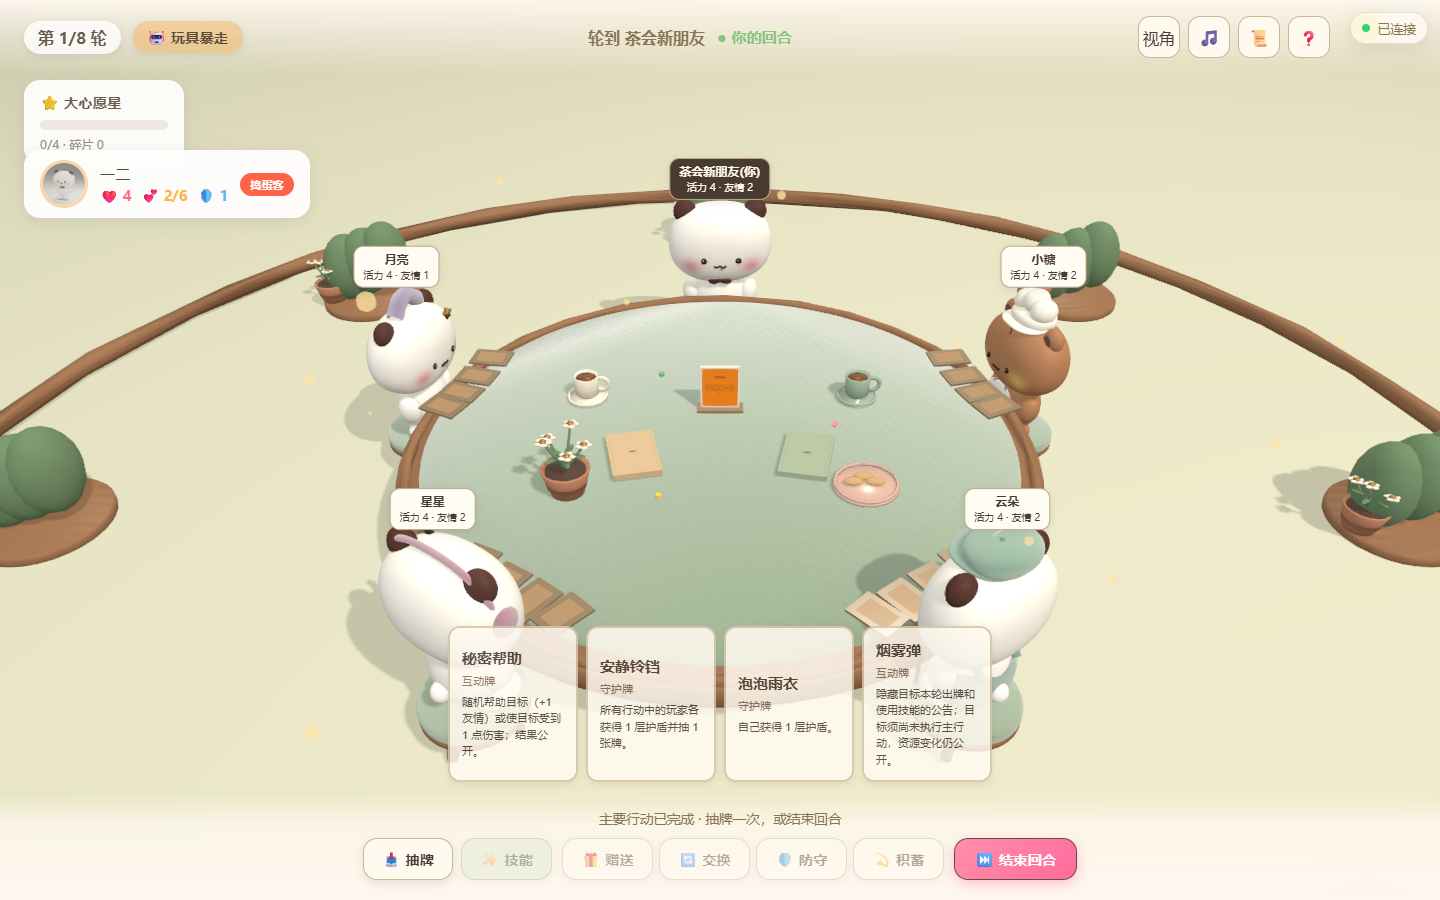
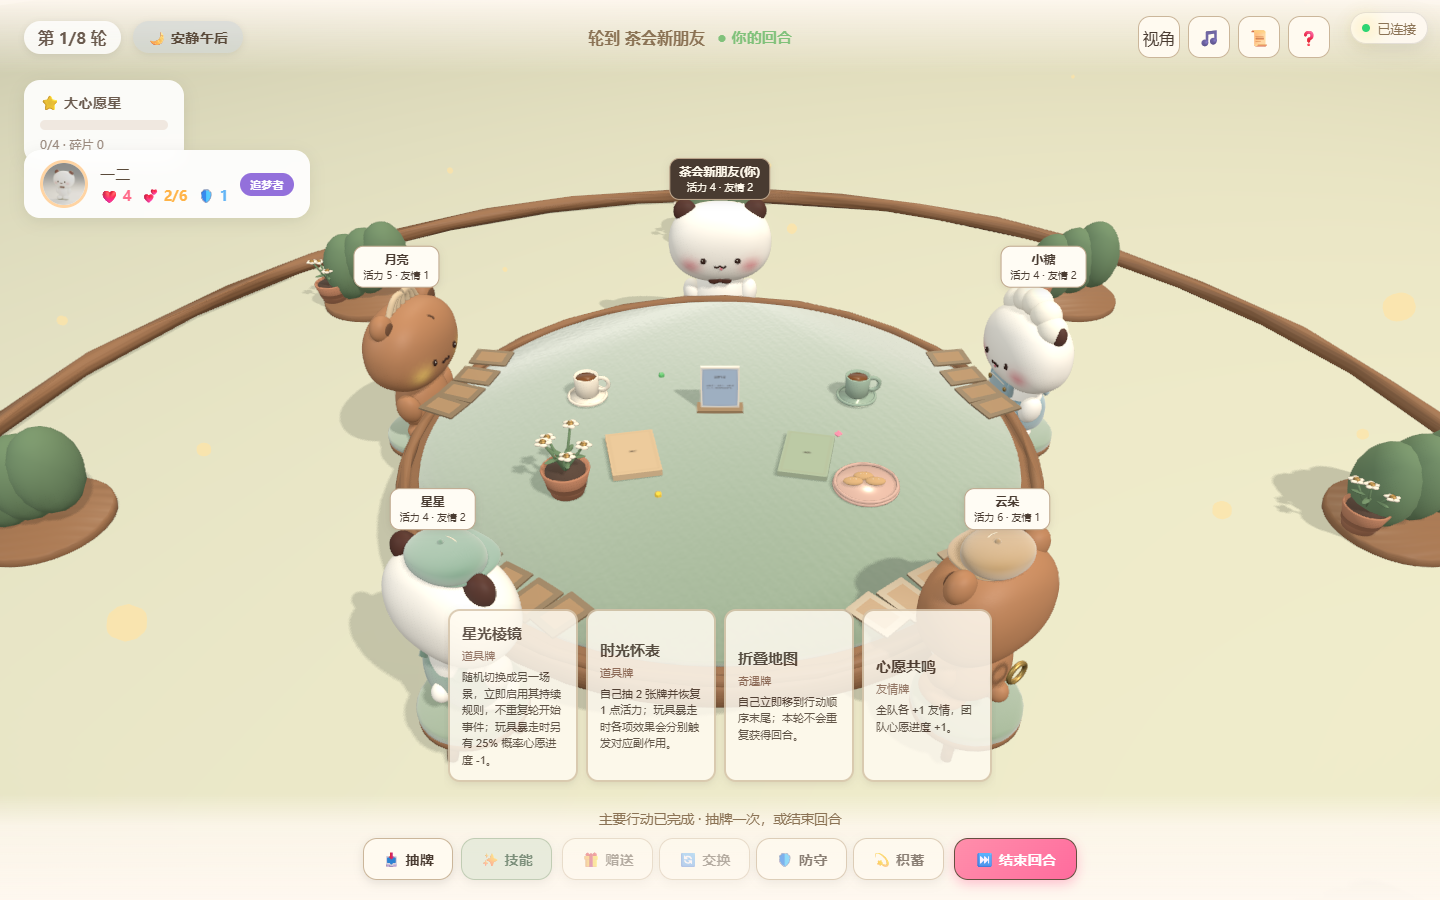
fix: keep production game sockets on the served origin

diff --git a/apps/web/src/socket.ts b/apps/web/src/socket.ts
@@ -5,10 +5,8 @@ let socket: Socket | null = null;
 
 export function getSocket(): Socket {
   if (!socket) {
-    const url = window.location.hostname === 'localhost'
-      ? 'http://localhost:3001'
-      : window.location.origin;
-    socket = io(url, {
+    // Vite proxies /socket.io in development; production shares the HTTP origin.
+    socket = io(window.location.origin, {
       transports: ['websocket', 'polling'],
       reconnection: true,
       reconnectionAttempts: 10,

diff --git a/docs/reviews/2026-10-08-acceptance.md b/docs/reviews/2026-10-08-acceptance.md
@@ -28,6 +28,14 @@
 
 保留远程 `cb5e07c` 的更新，使用普通双父合并，不强制推送。默认采用已验证的全桌视角，坐席视角可切换。推送和 Render 验证的准确结果追加在本文件，未验证前不视为已上线。
 
+- GitHub 已确认 `codex/premium-20261008` 和 `main` 指向发布提交 `2a0d8c8cbd79e0995f563b322de7dff94c364146`，主分支从 `cb5e07c` 普通前进。
[1 lines of base64/hex data omitted]
+- Render 公网文件与对局验收仍待本次自动部署完成。
+
+### 生产连接回归
+
+最初本地静态文件检查仍连接 localhost:3001 的开发服务器。新增断言要求 WebSocket 与页面同源后，旧代码明确失败；客户端现改为页面同源连接，开发由 Vite 代理，生产由同一服务处理。重新构建和真实 3002 桌面/手机检查通过，实际 WebSocket 端口与静态页面一致。
+
 ## 已知边界
 
 - 当前造型参考已保存并获用户授权的本地图片，没有通过本轮工具读取小红书当前登录页面；不宣称对指定笔记逐图复刻或相似度百分之百。
